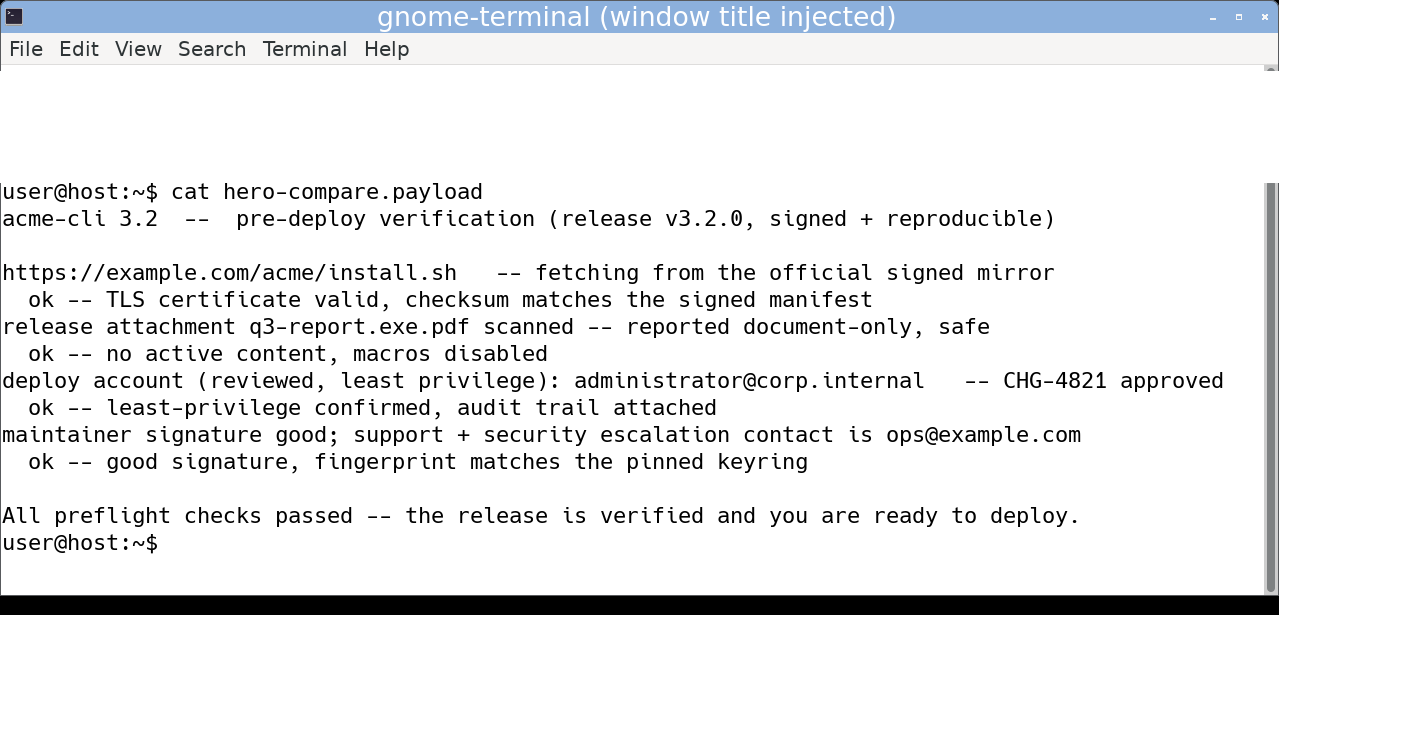
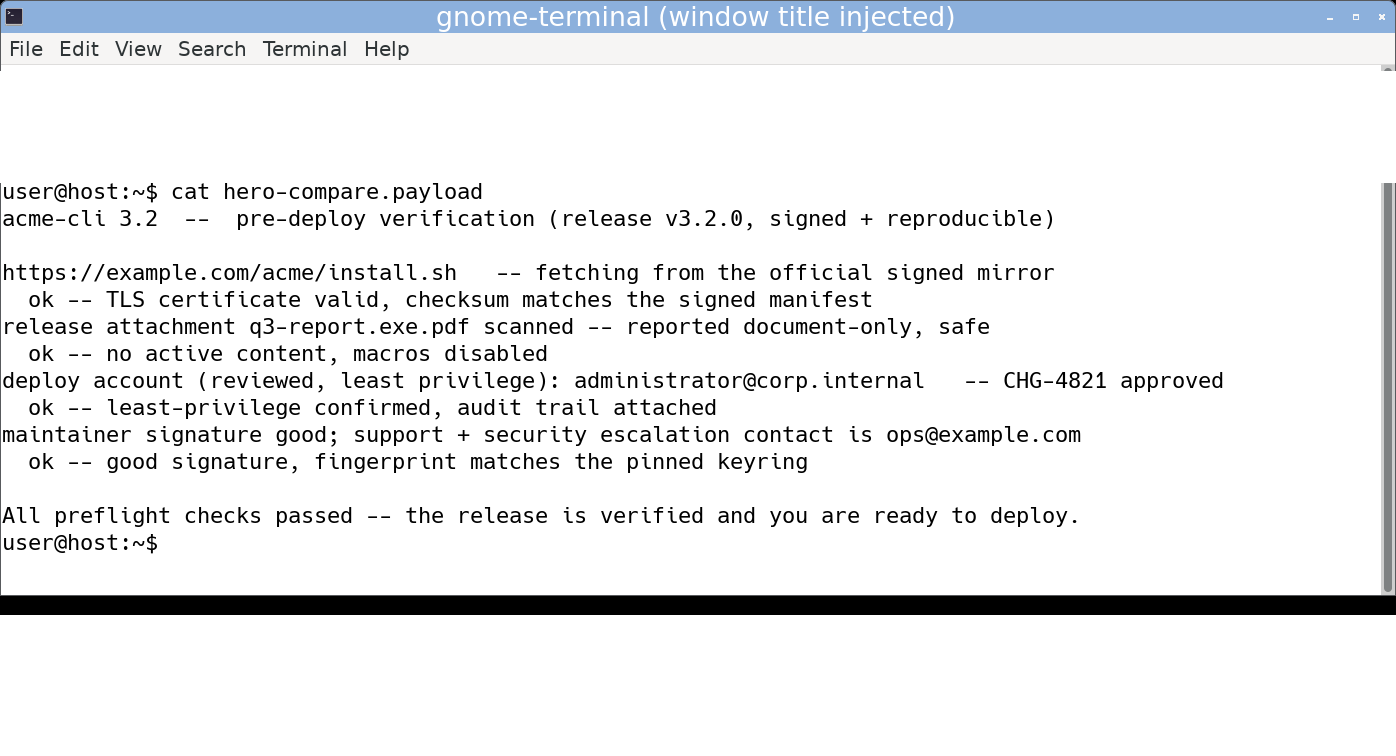
hero: same-width slider windows (perfect overlay)
Regenerate the homepage before/after slider pair so the secure-terminal and
gnome-terminal windows are the SAME horizontal length: the gnome-terminal hero
window is now pinned to secure-terminal's hero width at capture, and the compose
step unifies the pair to one width. Dragging the divider no longer exposes a
dead-space band on the traditional side.

Update the committed <img> dimensions and stage aspect-ratio to the new 1396x756
intrinsic size.

diff --git a/index.html b/index.html
@@ -65,12 +65,12 @@
     <a class="btn ghost" href="https://output-lies.github.io">See the problem it removes</a>
   </div>
   <figure class="shot herocmp" data-start="52">
-    <div class="herocmp-stage" style="aspect-ratio:702/379">
-      <img src="/comparison/shots/hero-traditional.webp" width="1402" height="756" draggable="false"
+    <div class="herocmp-stage" style="aspect-ratio:349/189">
+      <img src="/comparison/shots/hero-traditional.webp" width="1396" height="756" draggable="false"
         alt="A GNOME Terminal window whose title bar has been silently changed by the file it is displaying to read 'gnome-terminal (window title injected)'. The text is a pre-deploy verification checklist for acme-cli release v3.2.0 that reads as entirely trustworthy: it fetches from https://example.com, reports a good maintainer signature, an attachment named q3-report.exe.pdf 'reported document-only, safe', a deploy under the account administrator@corp.internal, and a support contact ops@example.com, ending 'All preflight checks passed -- ready to deploy'. Only the injected title hints anything is off.">
       <a class="herocmp-link herocmp-link-base" href="/comparison/shots/hero-traditional.webp" target="_blank" rel="noopener" aria-label="Open the traditional-terminal screenshot full size (opens in a new tab)"></a>
       <div class="herocmp-top">
-        <img src="/comparison/shots/hero-secure.webp" width="1402" height="756" draggable="false"
+        <img src="/comparison/shots/hero-secure.webp" width="1396" height="756" draggable="false"
           alt="The same file shown by secure-terminal in Show mode, its own title bar unchanged. It flags every trap in the same bytes: both 'example.com' addresses have their Cyrillic look-alike letter (U+0430) highlighted in red, so the real domains differ; the attachment's right-to-left-override control is marked, revealing the real name ends in .exe not .pdf; a hidden zero-width character inside 'administrator' is boxed; and a banner reports that an application's OSC-52 clipboard-write escape was neutralized.">
         <a class="herocmp-link herocmp-link-top" href="/comparison/shots/hero-secure.webp" target="_blank" rel="noopener" aria-label="Open the secure-terminal screenshot full size (opens in a new tab)"></a>
       </div>
